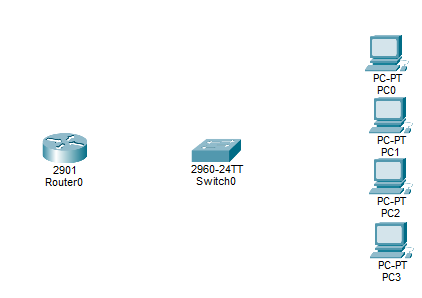
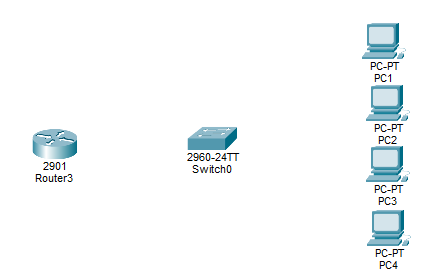
passo 5.5

Changed region(s): [[0.8318, 0.0571, 0.9858, 0.9714], [0.4313, 0.4286, 0.5853, 0.6286], [0.0616, 0.4286, 0.2156, 0.6571]]

diff --git a/tutorial_dhcp_packet_tracer_DORA.html b/tutorial_dhcp_packet_tracer_DORA.html
@@ -525,9 +525,7 @@
 
     <div class="screenshot">
       <div class="screenshot-inner">
-        <div class="screenshot-icon"><svg viewBox="0 0 24 24" fill="none" stroke="currentColor" stroke-width="1.5"><rect x="3" y="3" width="18" height="14" rx="2"/><path d="M8 21h8M12 17v4"/><path d="M3 8h18"/></svg></div>
-        <div class="screenshot-label">📷 Screenshot 5</div>
-        <div class="screenshot-desc">Scheda Config → FastEthernet0 di PC-2 con il campo MAC Address evidenziato da annotare.</div>
+        <img src="IMG Passo5.png" alt="Screenshot 5" style="max-width:780px;">
       </div>
     </div>
 
